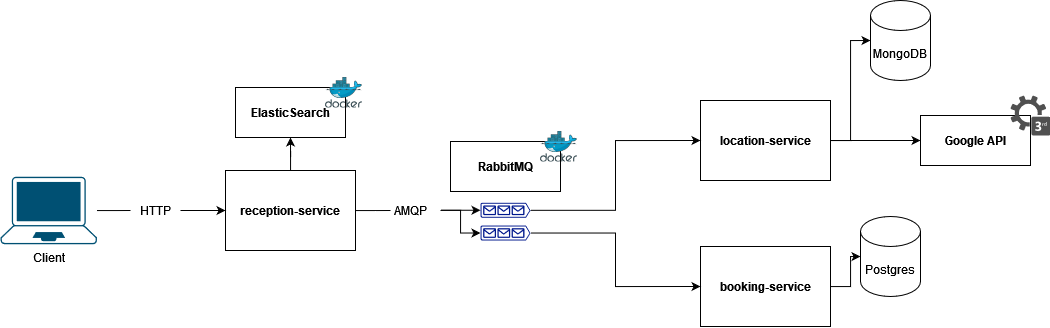
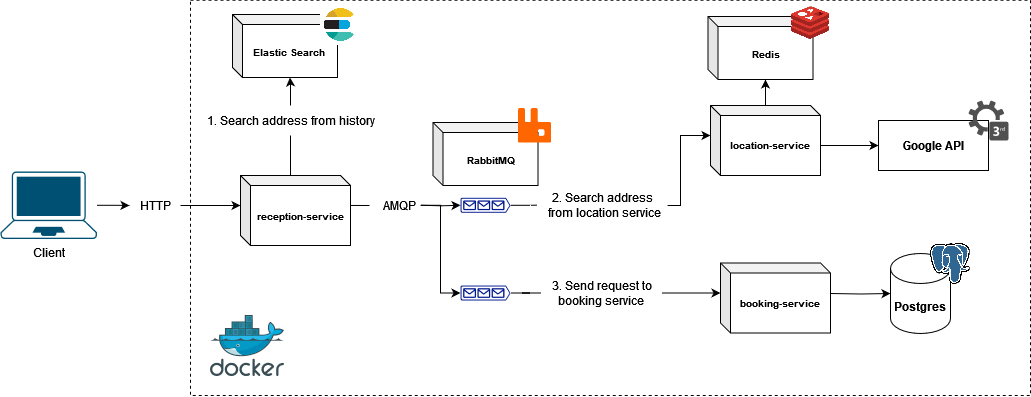
dockernize backend

diff --git a/reception-service/src/customer/customer.service.ts b/reception-service/src/customer/customer.service.ts
@@ -4,67 +4,83 @@ import { UpdateCustomerDto } from './dto/update-customer.dto';
 import { LocationService } from 'src/location/location.service';
 import { CreateLocationDto } from 'src/location/dto/create-location.dto';
 import { TripDto } from './dto/trip.dto';
+import { SubscriberService } from 'src/subscriber/subscriber.service';
+import { lastValueFrom } from 'rxjs';
 
 @Injectable()
 export class CustomerService {
-  constructor(private readonly locationService: LocationService) {}
+  constructor(
+    private readonly locationService: LocationService,
+    private readonly subscriberService: SubscriberService,
+  ) {}
 
   async create(createCustomerDto: CreateCustomerDto) {
     // - get address, coordiante from address_id
 
     // - save address to database
-    const result = await this.locationService.findPlaceAndCreate(
+    const placeDetail = await this.locationService.findPlaceAndCreate(
       createCustomerDto,
     );
 
     // - send to S3
+    const tripRequest: TripDto = {
+      address: {
+        place_id: placeDetail.place_id,
+        address: placeDetail.address,
+        coordiante: {
+          lat: placeDetail.coordinate.lat,
+          lon: placeDetail.coordinate.long,
+        },
+      },
+      phone: createCustomerDto.phone,
+      name: createCustomerDto.name,
+      address_id: createCustomerDto.address_id,
+      driver_id: createCustomerDto.driver_id,
+      seat_number: createCustomerDto.seat_number,
+    };
 
     // - get result from S3
+    const result = await lastValueFrom(await this.subscriberService.sendToBookingService("booking-request",tripRequest))
+
+
+    // TODO
 
     return result;
   }
 
   async getAllDriver() {
-    const result = [];
+    const result = await lastValueFrom(await this.subscriberService.sendToBookingService("drivers",""))
 
     return result;
   }
 
   createTest(createCustomerDto: CreateCustomerDto) {
-    // - get address, coordiante from address_id
-
-    // - save address to database
-    //this.locationService.findPlaceAndCreate(createCustomerDto);
-
     const placeDetail = {
       address: '227 Nguyễn Văn Cừ, Phường 4, Quận 5, Hồ Chí Minh',
       place_id:
         'LPG0o1ZmSzlgn8_EhhEsJniYYfW1dpqqsDpsp0NnqD24mSj6tU2OqHunAYYe3d0IyeLRbgoZmiq9hiFSGtUtCRWe6W4ODS5lEYqZQ74Z2hhBjnEOGsBCWO2G0S8aGEf0_',
-      coordinates: {
+      coordinate: {
         lat: 10.763554524000028,
         lon: 106.68216477300007,
       },
     };
 
     // - send to S3
-    const tripRequest : TripDto ={
+    const tripRequest: TripDto = {
       address: {
         place_id: placeDetail.place_id,
         address: placeDetail.address,
         coordiante: {
-          lat: placeDetail.coordinates.lat,
-          lon: placeDetail.coordinates.lon
-        }
+          lat: placeDetail.coordinate.lat,
+          lon: placeDetail.coordinate.lon,
+        },
       },
       phone: createCustomerDto.phone,
       name: createCustomerDto.name,
       address_id: createCustomerDto.address_id,
       driver_id: createCustomerDto.driver_id,
-      seat_number: createCustomerDto.seat_number
-    }
-
-
-
+      seat_number: createCustomerDto.seat_number,
+    };
 
     // - get result from S3
 

diff --git a/booking-service/src/main.ts b/booking-service/src/main.ts
@@ -8,25 +8,25 @@ import { ValidationPipe } from '@nestjs/common';
 async function bootstrap() {
   const app = await NestFactory.create(AppModule);
 
-  // const configService = app.get(ConfigService);
+  const configService = app.get(ConfigService);
 
-  // const user = configService.get('RABBITMQ_USER');
-  // const password = configService.get('RABBITMQ_PASSWORD');
-  // const host = configService.get('RABBITMQ_HOST');
-  // const queueName = configService.get('RABBITMQ_QUEUE_NAME');
+  const user = configService.get('RABBITMQ_USER');
+  const password = configService.get('RABBITMQ_PASSWORD');
+  const host = configService.get('RABBITMQ_HOST');
+  const queueName = configService.get('RABBITMQ_QUEUE_NAME');
 
-  // await app.connectMicroservice<MicroserviceOptions>({
-  //   transport: Transport.RMQ,
-  //   options: {
-  //     urls: [`amqp://${user}:${password}@${host}`],
-  //     queue: queueName,
-  //     queueOptions: {
-  //       durable: false,
-  //     },
-  //   },
-  // });
+  await app.connectMicroservice<MicroserviceOptions>({
+    transport: Transport.RMQ,
+    options: {
+      urls: [`amqp://${user}:${password}@${host}`],
+      queue: queueName,
+      queueOptions: {
+        durable: false,
+      },
+    },
+  });
  
-  // app.startAllMicroservices();
+  await app.startAllMicroservices();
 
   // - comment from line 9 -> line 27 and uncomment line 30 to remove microservice
 
@@ -50,6 +50,6 @@ async function bootstrap() {
     })
   );
 
-  app.listen(3000)
+  await app.listen(3001)
 }
 bootstrap();

diff --git a/booking-service/src/booking/booking.controller.ts b/booking-service/src/booking/booking.controller.ts
@@ -3,6 +3,7 @@ import { ApiBody, ApiOperation, ApiParam, ApiResponse, ApiTags } from '@nestjs/s
 import { BookingService } from './booking.service';
 import { CreateRideDto } from './dtos/create-ride.dto';
 import { UpdateRideDto } from './dtos/update-ride.dto';
+import { MessagePattern, Payload } from '@nestjs/microservices';
 
 @ApiTags('booking')
 @Controller('booking')
@@ -11,12 +12,17 @@ export class BookingController {
     constructor(private bookingService: BookingService){}
 
     // CREATE NEW RIDE
-    @ApiOperation({ summary: "Create a new ride" })
-    @ApiBody({ type: CreateRideDto })
-    @Post()
-    async createADriver(@Body() rideCreateDto: CreateRideDto) {
-        return await this.bookingService.createNewRide(rideCreateDto);
+    @MessagePattern({ cmd: 'booking-request' })
+    async createADriver(@Payload() request: any) {
+        return await this.bookingService.createNewRide(request);
     }
+
+    // @ApiOperation({ summary: "Create a new ride" })
+    // @ApiBody({ type: CreateRideDto })
+    // @Post()
+    // async createADriver(@Body() rideCreateDto: CreateRideDto) {
+    //     return await this.bookingService.createNewRide(rideCreateDto);
+    // }
 
     @ApiOperation({ summary: "Get all trip" })
     @Get()

diff --git a/booking-service/src/booking/booking.service.ts b/booking-service/src/booking/booking.service.ts
@@ -10,9 +10,9 @@ export class BookingService {
         private readonly prismaService: PrismaService
     ) {}
 
-    async createNewRide(createRideDto: CreateRideDto): Promise<Trip | [] > {
+    async createNewRide(request: any): Promise<Trip | [] > {
         
-        const {pickup_address, name, phone, seat_number, driver_id, status} = createRideDto;
+        const {address, name, phone, seat_number, driver_id} = request;
 
         const driverExists = await this.prismaService.driver.findFirst({
             where: {
@@ -29,11 +29,11 @@ export class BookingService {
         const newRide = await this.prismaService.trip.create({
             data: {
                 driverID: driver_id,
-                source: pickup_address,
+                source: address.address,
                 riderName: name, 
                 total_seat: seat_number,
                 riderPhone: phone,
-                status: status
+                status: "Waiting"
             }
         });
 

diff --git a/location-service/src/geocoding/geocoding.controller.ts b/location-service/src/geocoding/geocoding.controller.ts
@@ -1,9 +1,7 @@
 import { Controller, Get, Param } from '@nestjs/common';
 import { MessagePattern, Payload } from '@nestjs/microservices';
 import { GeocodingService } from './geocoding.service';
-import { CreateGeocodingDto } from './dto/create-geocoding.dto';
-import { UpdateGeocodingDto } from './dto/update-geocoding.dto';
-import { FindGeocodingDto } from './dto/find-geocoding.dto';
+
 
 @Controller('test')
 export class GeocodingController {
@@ -18,17 +16,5 @@ export class GeocodingController {
   searchCoordinate(@Payload() placeId: string) {
     return this.geocodingService.findCoordinate(placeId);
   }
-
-  // @Get('')
-  // testRedisConnect(@Param() placeId: string) {
-  //   return "Ok";
-  // }
-
-  // @Get(':id')
-  // testRedis(@Param('id') placeId: string) {
-  //   console.log(placeId);
-  //   return this.geocodingService.testRedis(placeId);
-  // }
-
 
 }

diff --git a/booking-service/src/driver/driver.controller.ts b/booking-service/src/driver/driver.controller.ts
@@ -13,6 +13,7 @@ import { join } from 'path';
 import { DriverLocationUpdateDto } from './dtos/driver.location.update.dto';
 import { DriverRefreshTokenDto } from './dtos/driver.refresh.dto';
 import { DriverDeviceTokenDto } from './dtos/driver.devicetoken.dto';
+import { MessagePattern } from '@nestjs/microservices';
 
 
 export const storage = {
@@ -38,8 +39,10 @@ export class DriverController {
         return await this.driverService.getDriverById(userId);
     }
 
-    @ApiOperation({ summary: "Get all driver" })
-    @Get()
+
+    //@ApiOperation({ summary: "Get all driver" })
+    //@Get()
+    @MessagePattern({ cmd: 'drivers' })
     async getAllDriver() {
         return await this.driverService.getAllDriver();
     }

diff --git a/location-service/src/geocoding/geocoding.module.ts b/location-service/src/geocoding/geocoding.module.ts
@@ -21,20 +21,6 @@ import { redisStore } from 'cache-manager-redis-yet';
             port: configService.get('REDIS_PORT'),
           },
         }),
-
-        // const store = await redisStore({
-        //   url: configService.get('REDIS_URL'),
-        //   ttl: 6000 * 10,
-        // });
-        // const client= store.getClient()
-        // if(client.isOpen){
-        //   await client.connect()
-        // }
-
-        // await client.ping()
-        // return {
-        //   store: () => store,
-        // };
       }),
       inject: [ConfigService],
     }),

diff --git a/reception-service/src/customer/customer.module.ts b/reception-service/src/customer/customer.module.ts
@@ -2,9 +2,10 @@ import { Module } from '@nestjs/common';
 import { CustomerService } from './customer.service';
 import { CustomerController } from './customer.controller';
 import { LocationModule } from 'src/location/location.module';
+import { SubscriberModule } from 'src/subscriber/subscriber.module';
 
 @Module({
-  imports: [LocationModule],
+  imports: [LocationModule,SubscriberModule],
   controllers: [CustomerController],
   providers: [CustomerService],
 })

diff --git a/reception-service/src/subscriber/subscriber.service.ts b/reception-service/src/subscriber/subscriber.service.ts
@@ -16,6 +16,10 @@ export class SubscriberService {
     return this.clientLocation.send({ cmd: pattern }, data);
   }
 
+  async sendToBookingService(pattern: string, data: any) {
+    return this.clientBooking.send({ cmd: pattern }, data);
+  }
+
   // Gửi thep pattern 'greeting' đến client của Location
   async getHelloMicro(): Promise<any> {
     return this.clientLocation.send({ cmd: 'greeting' }, 'Reception');

diff --git a/reception-service/src/location/location.service.ts b/reception-service/src/location/location.service.ts
@@ -97,6 +97,7 @@ export class LocationService {
 
     const resultFromES = await this.findByPlaceId(createCustomerDto.address_id);
 
+    console.log(resultFromES);
     if (resultFromES.hits.hits.length > 0) {
       const place : any = resultFromES.hits.hits[0]._source;
       const data = {

diff --git a/reception-service/src/main.ts b/reception-service/src/main.ts
@@ -13,7 +13,7 @@ async function bootstrap() {
 
   const document = SwaggerModule.createDocument(app, config);
   SwaggerModule.setup('api', app, document);
-
+  app.enableCors()
   await app.listen(3000);
 }
 bootstrap();
